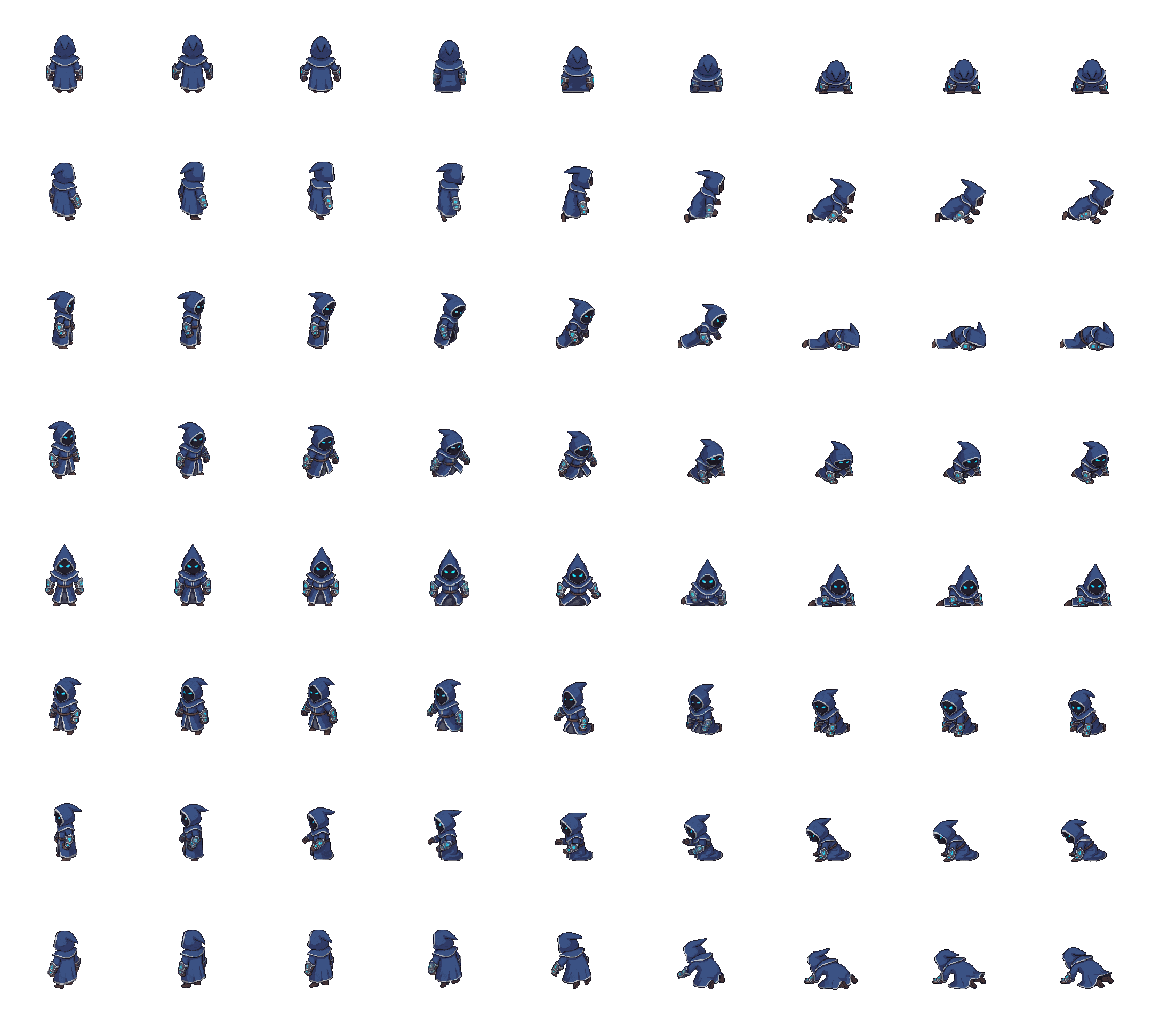
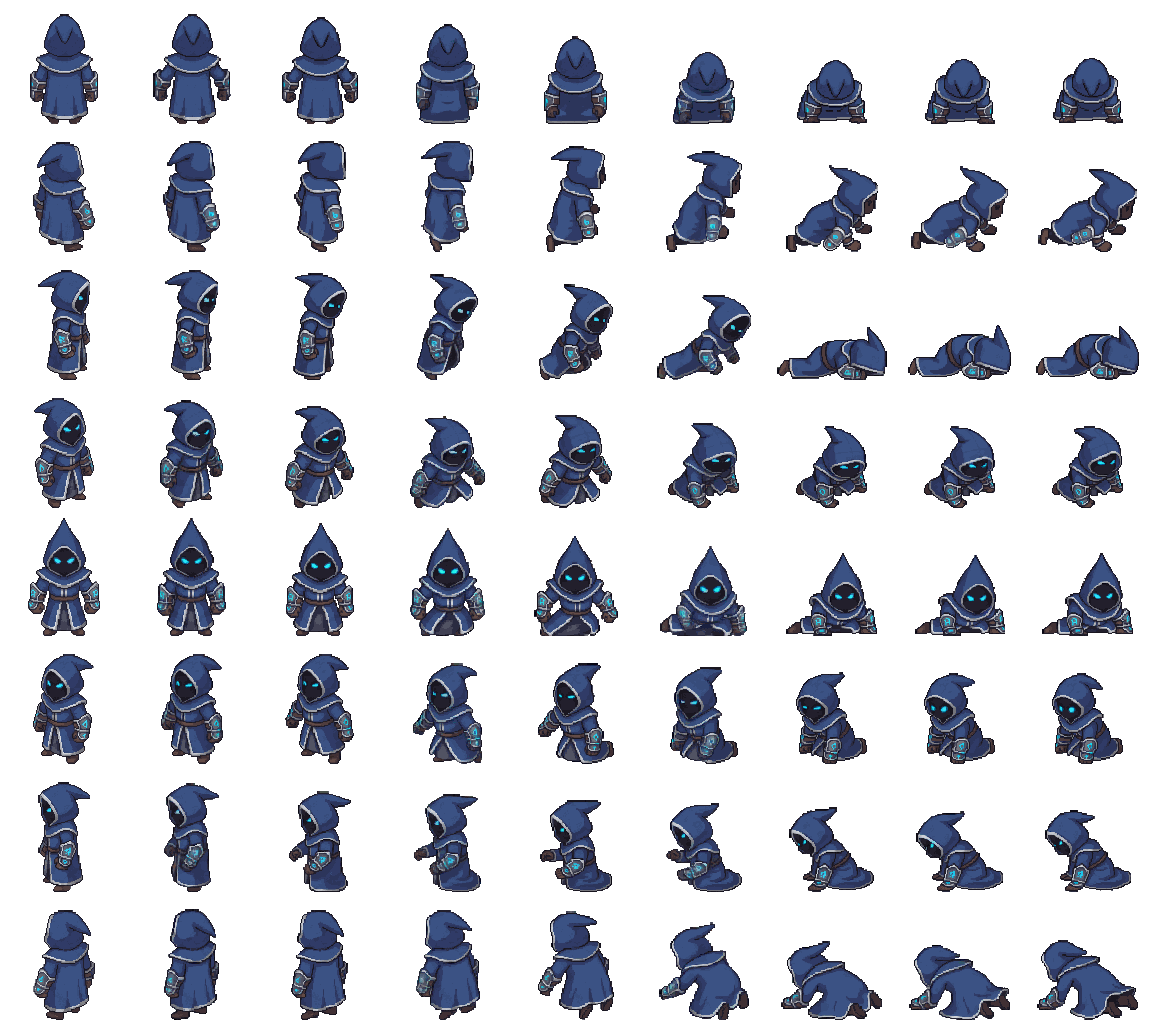
fix(knight): bottom-align sprite feet in cell so mage stops floating
User noticed the mage sprite appeared to FLOAT above its ground shadow.
Root cause: PixelLab exports have significant transparent padding around
the character (headroom for arms extending up during cast animations).
A naive resize to 128px cell left the body centered, with ~12px of
empty transparent space below the feet. The in-game ground shadow drew
UNDER that empty space, creating the float illusion.

Fix (import-character.js resizeToCell):
 - Trim each frame to its actual pixel bounds first (sharp.trim)
 - Compute a CANONICAL scale factor once from rotations/south.png so
   the character reads consistent size across all animations/frames
 - Apply canonical scale to each trimmed frame
 - Bottom-align in the 128-cell with a 4px ground-margin, horizontally
   centered. Feet ALWAYS land at cell bottom regardless of whether
   the frame has arms raised or lowered.
 - Edge case: frames where the character + VFX exceed cell width
   (attack frames with arms thrust wide + cyan spell burst) are
   center-cropped horizontally and bottom-cropped to preserve the
   feet. The hood tip may extend into the top of the cell now —
   that's fine because the sprite anchor positions the hood above
   the hero anchor anyway.

Re-ran import for mage; all 5 sheets regenerated. Hero lands on his
shadow cleanly in-game.

diff --git a/slime-depths/scripts/pixellab/import-character.js b/slime-depths/scripts/pixellab/import-character.js
@@ -79,13 +79,64 @@ async function findAnimFolder(prefix) {
   return match;
 }
 
+// PixelLab-native frames have significant transparent padding around the
+// character (headroom for arms extending up during attack/cast). A straight
+// resize leaves the body centered in the cell, which makes the hero
+// appear to FLOAT above its ground shadow in-game. To fix: trim each
+// frame to actual pixel bounds, scale by a CANONICAL scale factor
+// (computed once from rotations/south.png), then bottom-align in the
+// target cell. Feet land at cell-bottom across every frame/direction.
+
+let _canonicalScale = null;
+async function getCanonicalScale() {
+  if (_canonicalScale !== null) return _canonicalScale;
+  const refBuf = await readFile(join(SRC_ROOT, 'rotations', 'south.png'));
+  const trimmed = await sharp(refBuf).trim({ threshold: 1 }).toBuffer();
+  const meta = await sharp(trimmed).metadata();
+  // Scale so canonical body height fills ~92% of cell (8% breathing room)
+  _canonicalScale = (TARGET_CELL * 0.92) / meta.height;
+  return _canonicalScale;
+}
+
 async function resizeToCell(srcBuf) {
-  // Source is 240×240 RGBA; resize to TARGET_CELL²  with nearest-neighbor
-  // so the pixel-art look is preserved. No trim — the character is
-  // already centered in its PixelLab canvas and trimming per-frame
-  // would cause positional jitter across frames.
-  return sharp(srcBuf)
-    .resize(TARGET_CELL, TARGET_CELL, { kernel: sharp.kernel.nearest })
+  const scale = await getCanonicalScale();
+  const trimmed = await sharp(srcBuf).trim({ threshold: 1 }).toBuffer();
+  const meta = await sharp(trimmed).metadata();
+  const newW = Math.max(1, Math.round(meta.width * scale));
+  const newH = Math.max(1, Math.round(meta.height * scale));
+  let scaledBuf = await sharp(trimmed)
+    .resize(newW, newH, { kernel: sharp.kernel.nearest })
+    .toBuffer();
+
+  // If the scaled frame EXCEEDS the cell in either dimension (e.g. attack
+  // poses with arms or spell VFX extending outward), center-crop to fit.
+  // Width: center-crop horizontally. Height: bottom-aligned crop (preserve
+  // the feet, sacrifice headroom — an overflowing pointed hood is fine).
+  let finalW = newW, finalH = newH;
+  if (newW > TARGET_CELL || newH > TARGET_CELL) {
+    const cropW = Math.min(newW, TARGET_CELL);
+    const cropH = Math.min(newH, TARGET_CELL);
+    const cropL = Math.max(0, Math.floor((newW - TARGET_CELL) / 2));
+    const cropT = Math.max(0, newH - TARGET_CELL);    // preserve bottom
+    scaledBuf = await sharp(scaledBuf)
+      .extract({ left: cropL, top: cropT, width: cropW, height: cropH })
+      .toBuffer();
+    finalW = cropW; finalH = cropH;
+  }
+
+  // Horizontal: center. Vertical: bottom-align with 4px ground margin.
+  const left = Math.max(0, Math.floor((TARGET_CELL - finalW) / 2));
+  const top = Math.max(0, TARGET_CELL - finalH - 4);
+  return sharp({
+    create: {
+      width: TARGET_CELL,
+      height: TARGET_CELL,
+      channels: 4,
+      background: { r: 0, g: 0, b: 0, alpha: 0 },
+    },
+  })
+    .composite([{ input: scaledBuf, left, top }])
+    .png()
     .toBuffer();
 }
 
